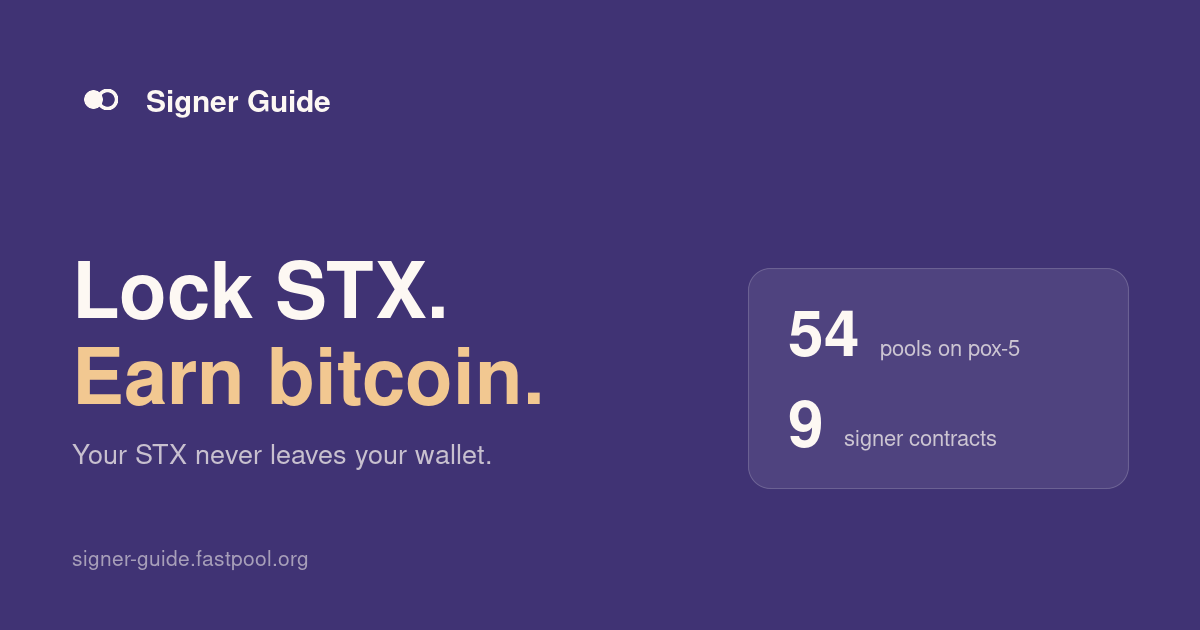
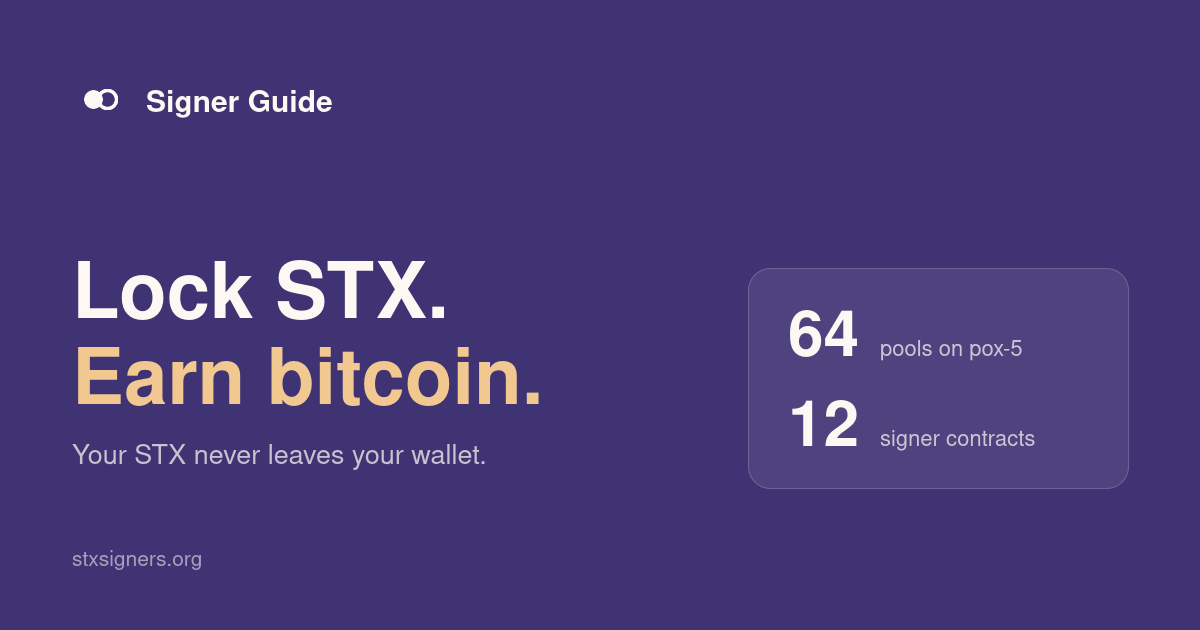
Redraw the share card with stxsigners.org
Claude-Session: https://claude.ai/code/session_01VLqRZ3m7UBzK6LNUqTDsWs

diff --git a/index.html b/index.html
@@ -44,13 +44,13 @@
          without it a redrawn card changes nothing anybody sees. -->
     <meta
       property="og:image"
-      content="https://stxsigners.org/share-card.png?v=738985ab"
+      content="https://stxsigners.org/share-card.png?v=92e1b28d"
     />
     <meta property="og:image:width" content="1200" />
     <meta property="og:image:height" content="630" />
     <meta
       property="og:image:alt"
-      content="Signer Guide - lock STX, earn bitcoin. 54 pools on pox-5, 9 signer contracts."
+      content="Signer Guide - lock STX, earn bitcoin. 64 pools on pox-5, 12 signer contracts."
     />
     <meta name="twitter:card" content="summary_large_image" />
     <!-- The bar around the page follows the page: cream by day, the dark
